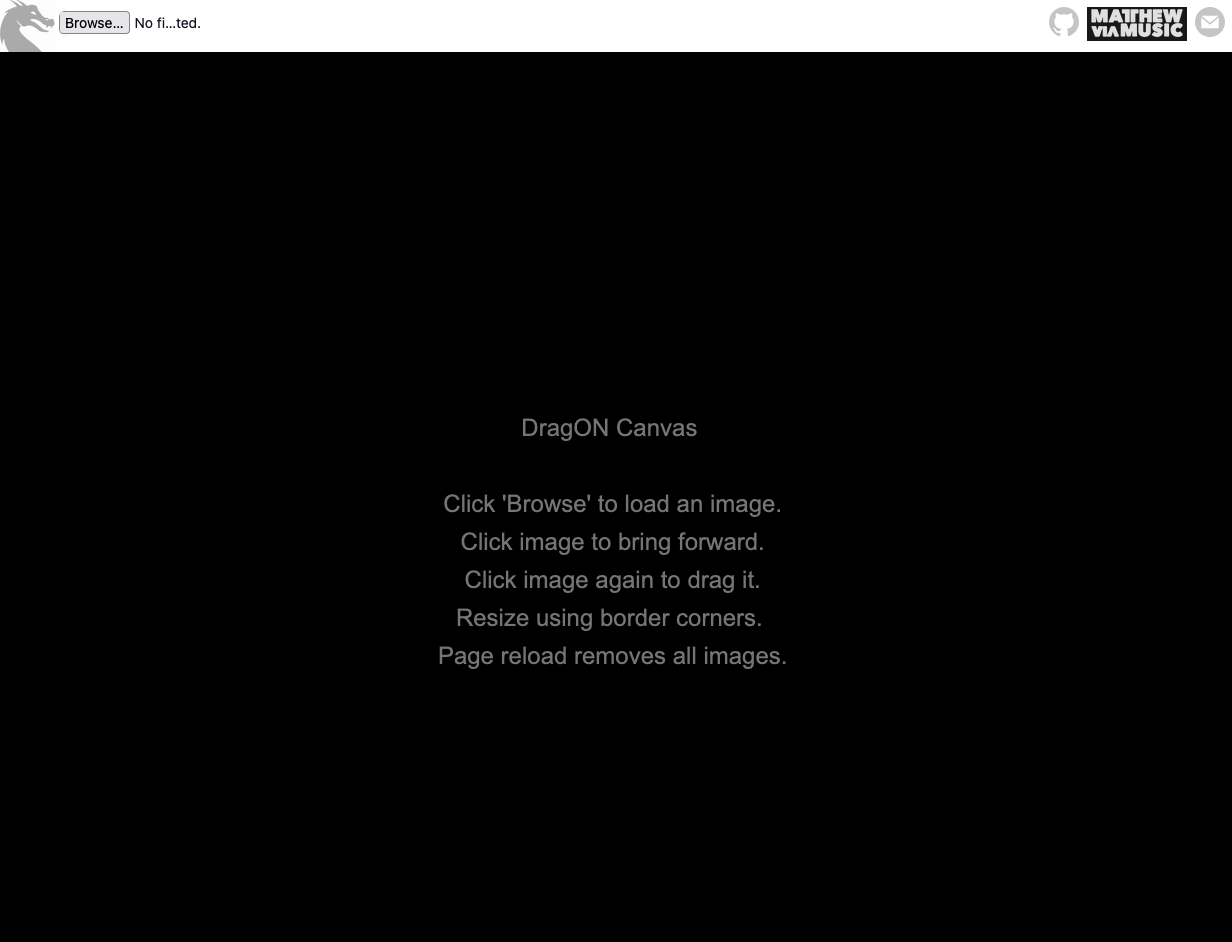
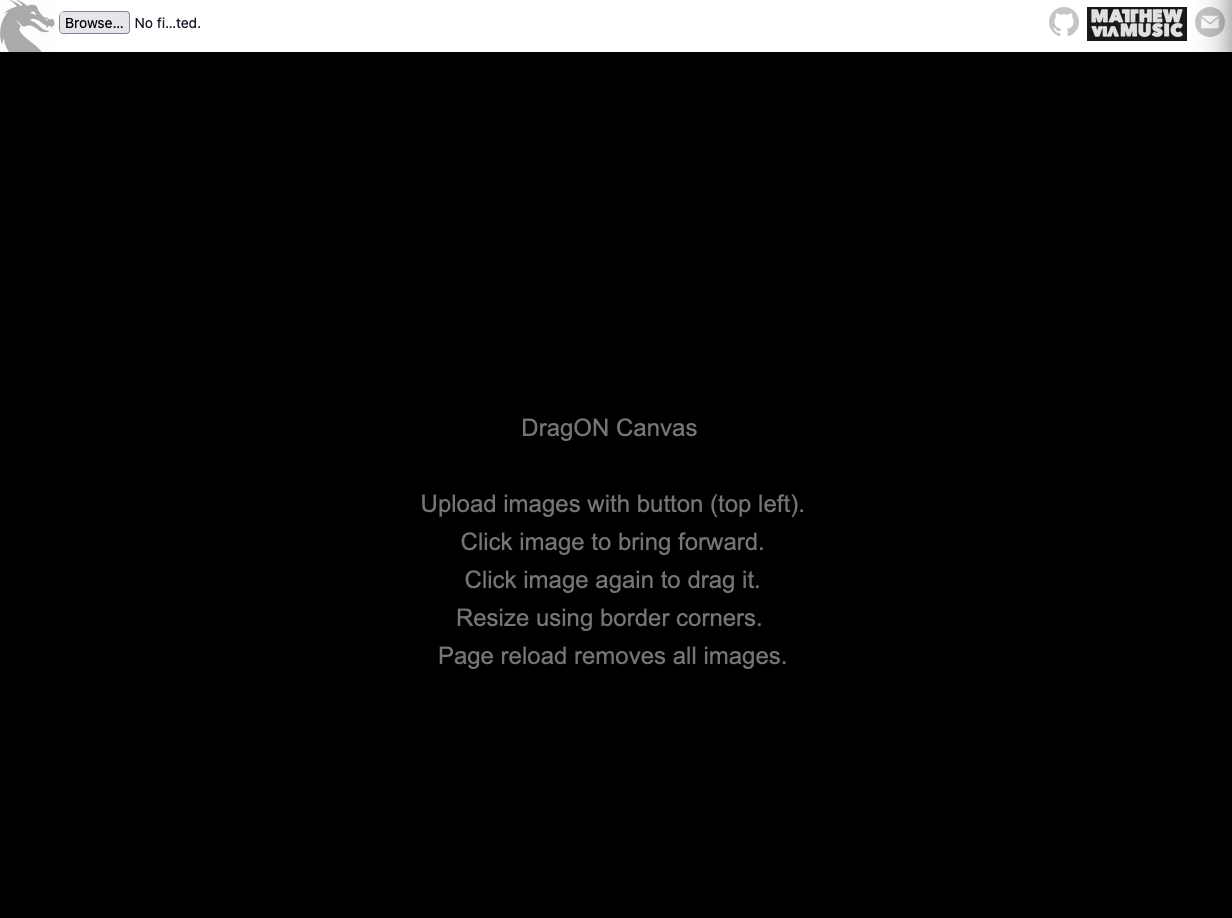
update instruction to be more generic due to browser variations on file upload button name + update preview

diff --git a/script.js b/script.js
@@ -47,7 +47,7 @@ function drawInstructions() {
   const lineHeight = 38; // Adjust the space between lines
 
   // Instruction text with manual line breaks
-  const text = "DragON Canvas \n\nClick 'Browse' to load an image.\nClick image to bring forward.\nClick image again to drag it.\nResize using border corners. \nPage reload removes all images.";
+  const text = "DragON Canvas \n\nUpload images with button (top left).\nClick image to bring forward.\nClick image again to drag it.\nResize using border corners. \nPage reload removes all images.";
 
   // Calculate the starting y position to center the text block vertically
   const y = canvas.height / 3 - (lineHeight * 1.5);
